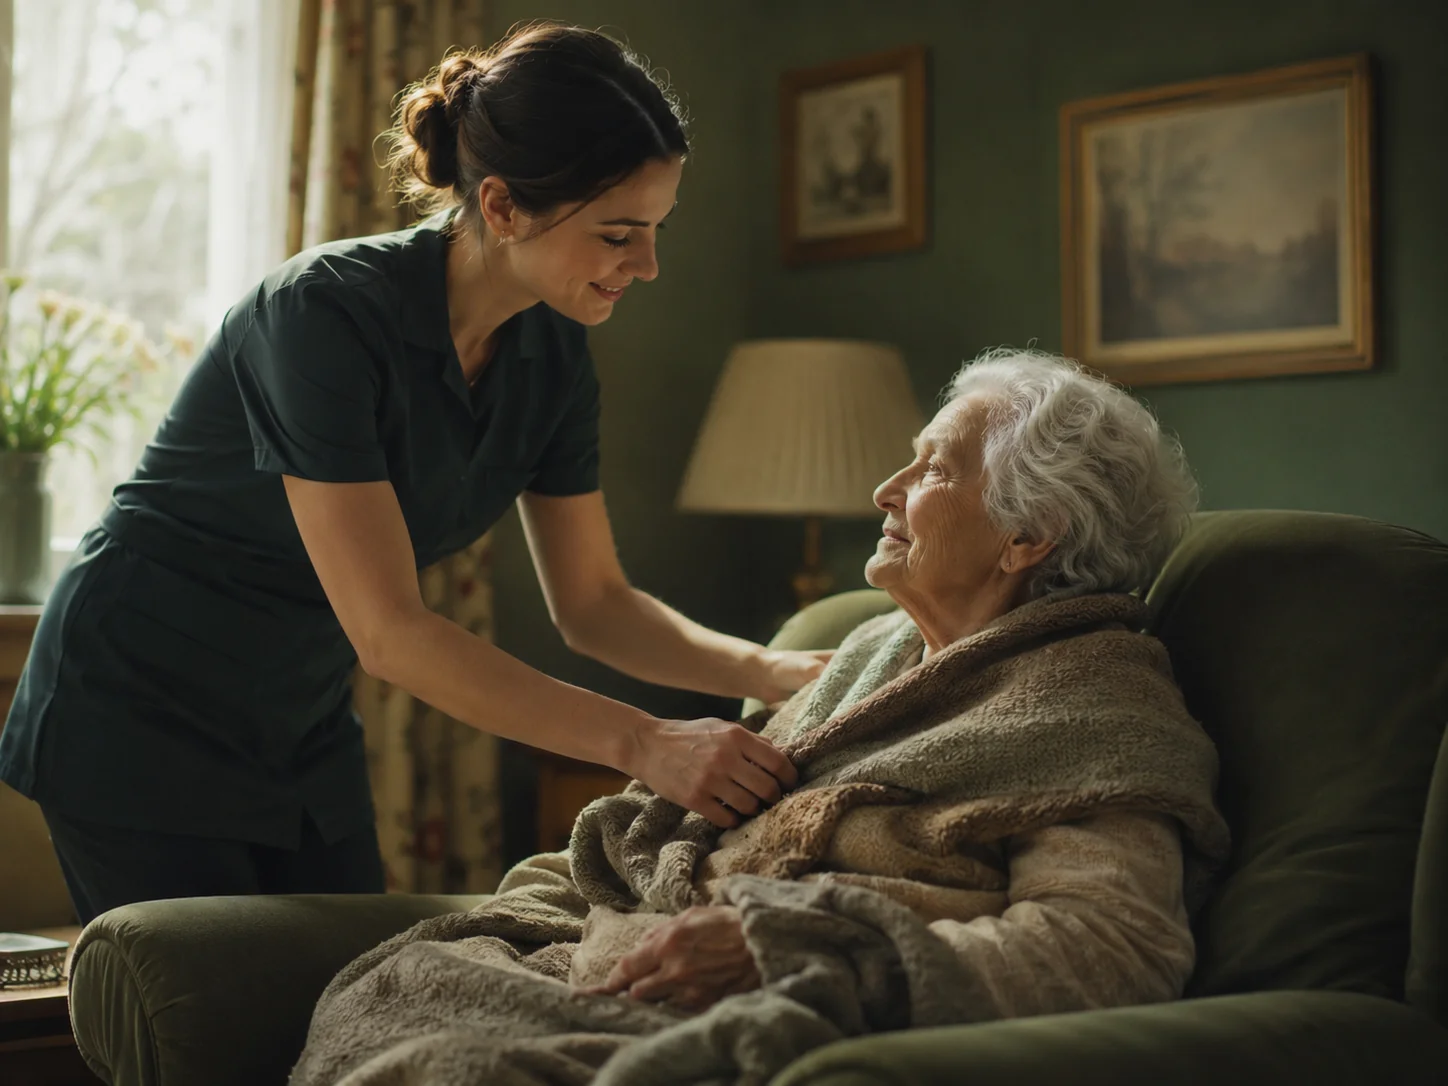
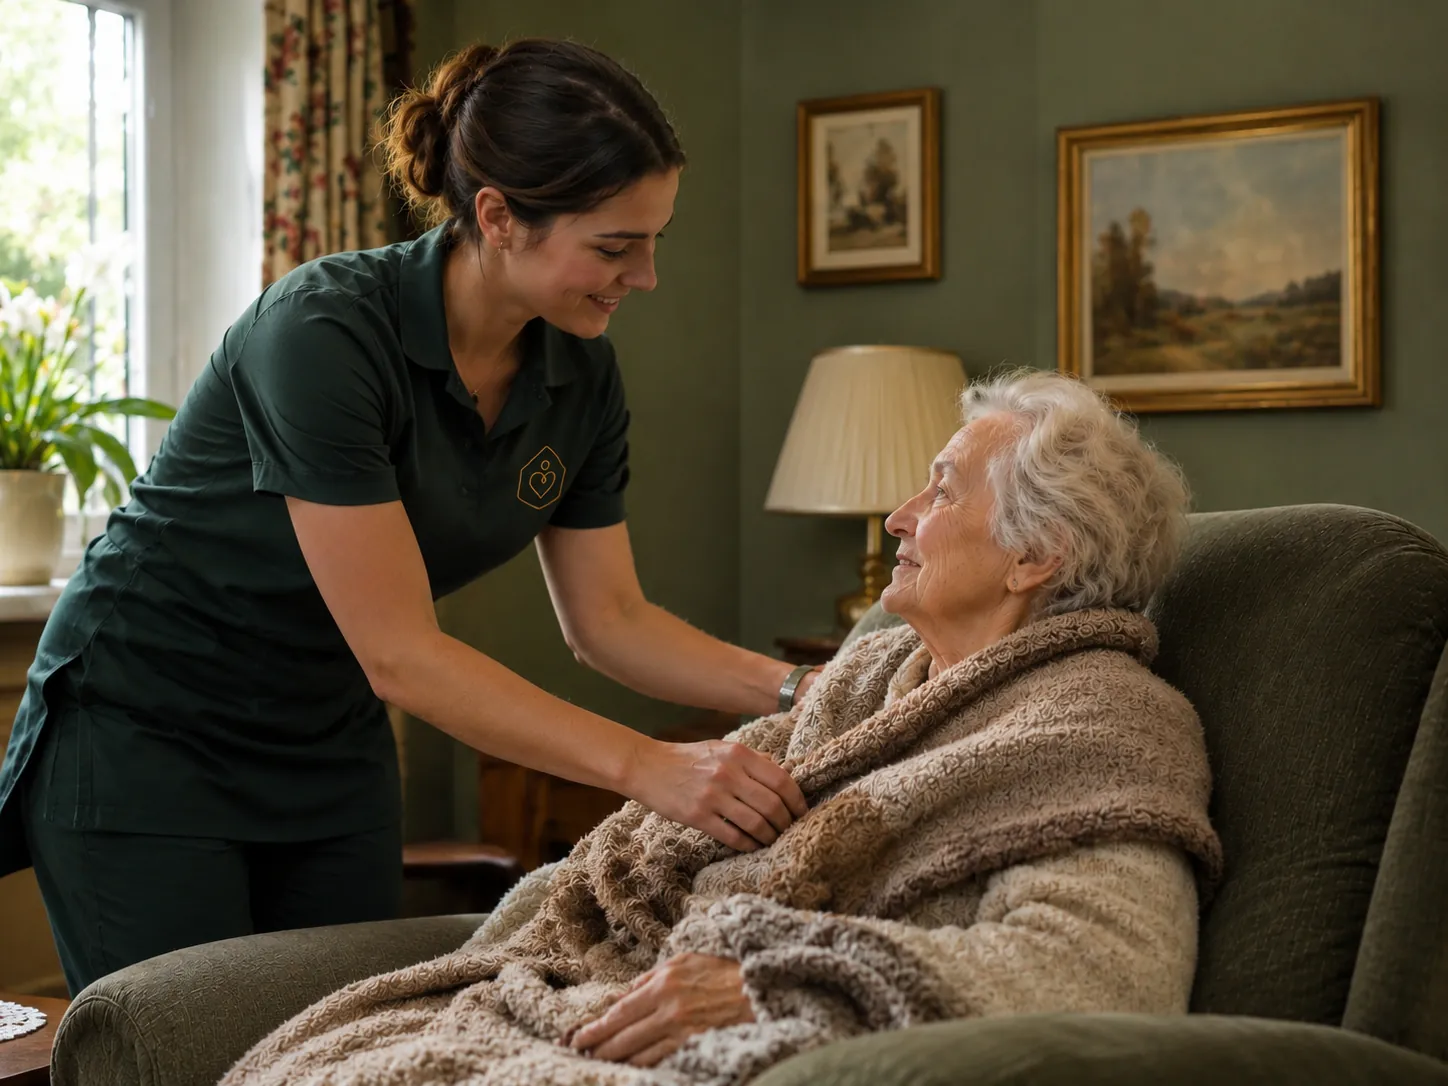
Novy obrazek domacipece (Domaci pece) jako WebP s ?v=2

diff --git a/app.js b/app.js
@@ -1428,7 +1428,7 @@ function initTheme(){applyTheme('dark');}
 /* mapování id služby → název obrázku (kde se liší) */
 const SVC_IMG={lekar:'doktor',domaci:'domacipece',pomoc:'pomocvdomacnosti',rehab:'Rehabilitace'};
 /* verze obrázku dlaždice — zvýšit při výměně obrázku (obrázky se cachují natrvalo) */
-const SVC_IMG_V={osobni:2,lekar:2};
+const SVC_IMG_V={osobni:2,lekar:2,domaci:2};
 /* hlavních 6 služeb na úvodní stránce */
 const MAIN_SERVICES=['osobni','lekar','domaci','nakupy','nocni','nemocnice'];
 function renderHome(){
